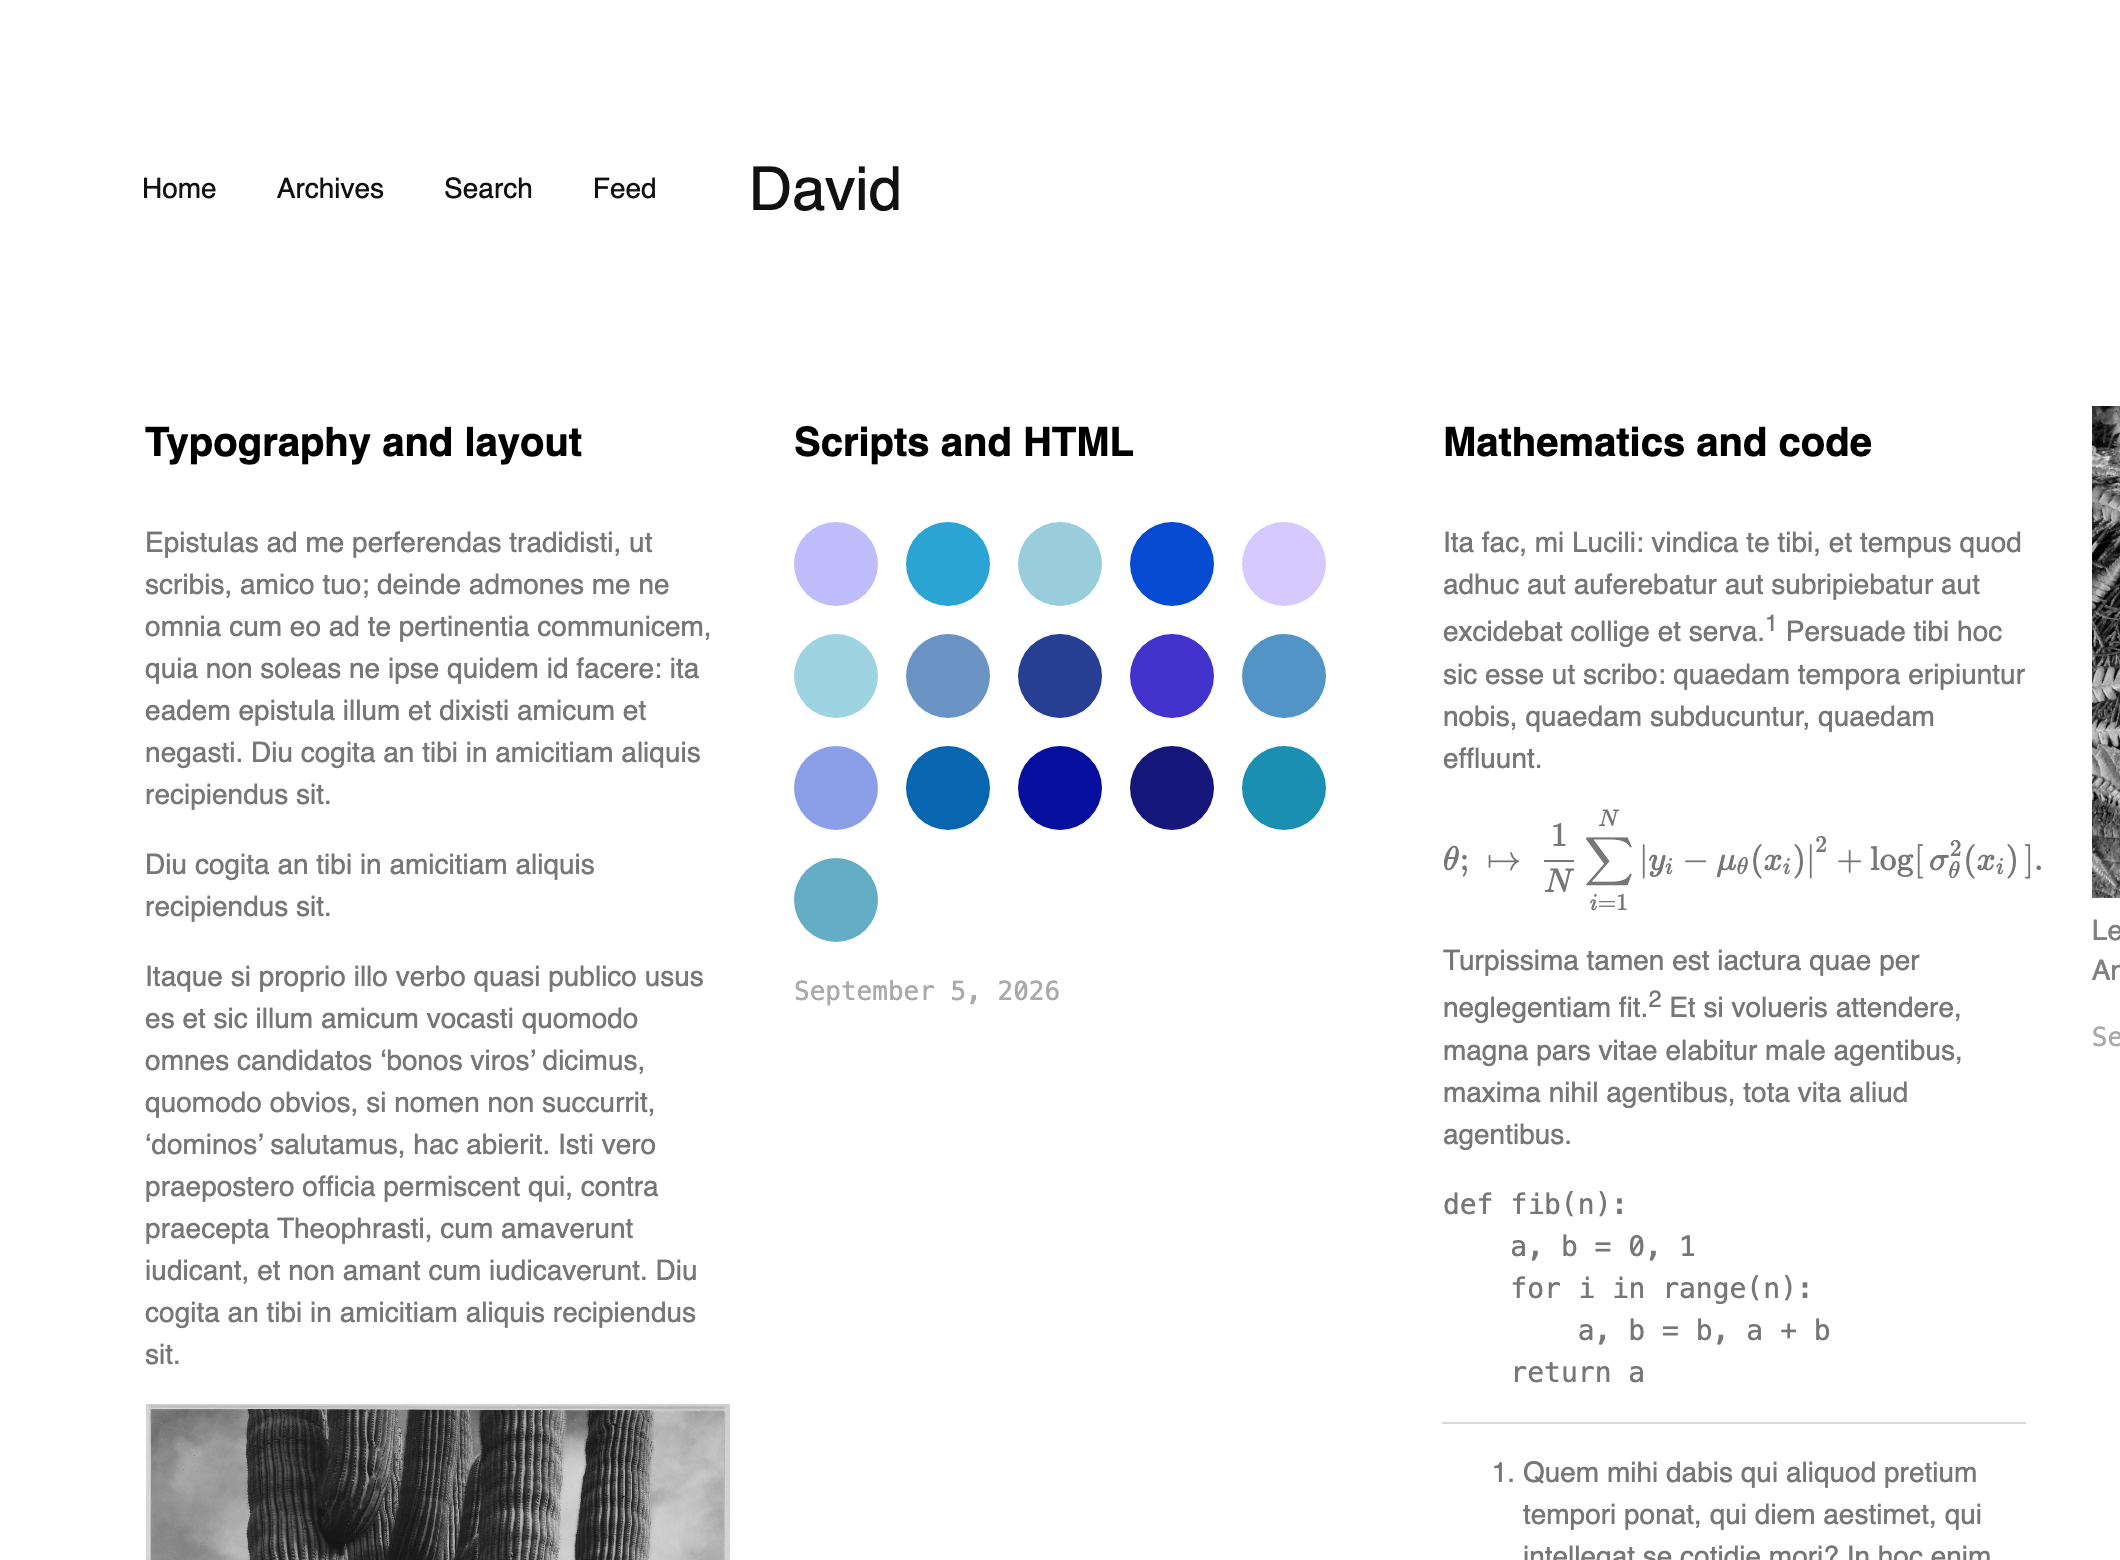
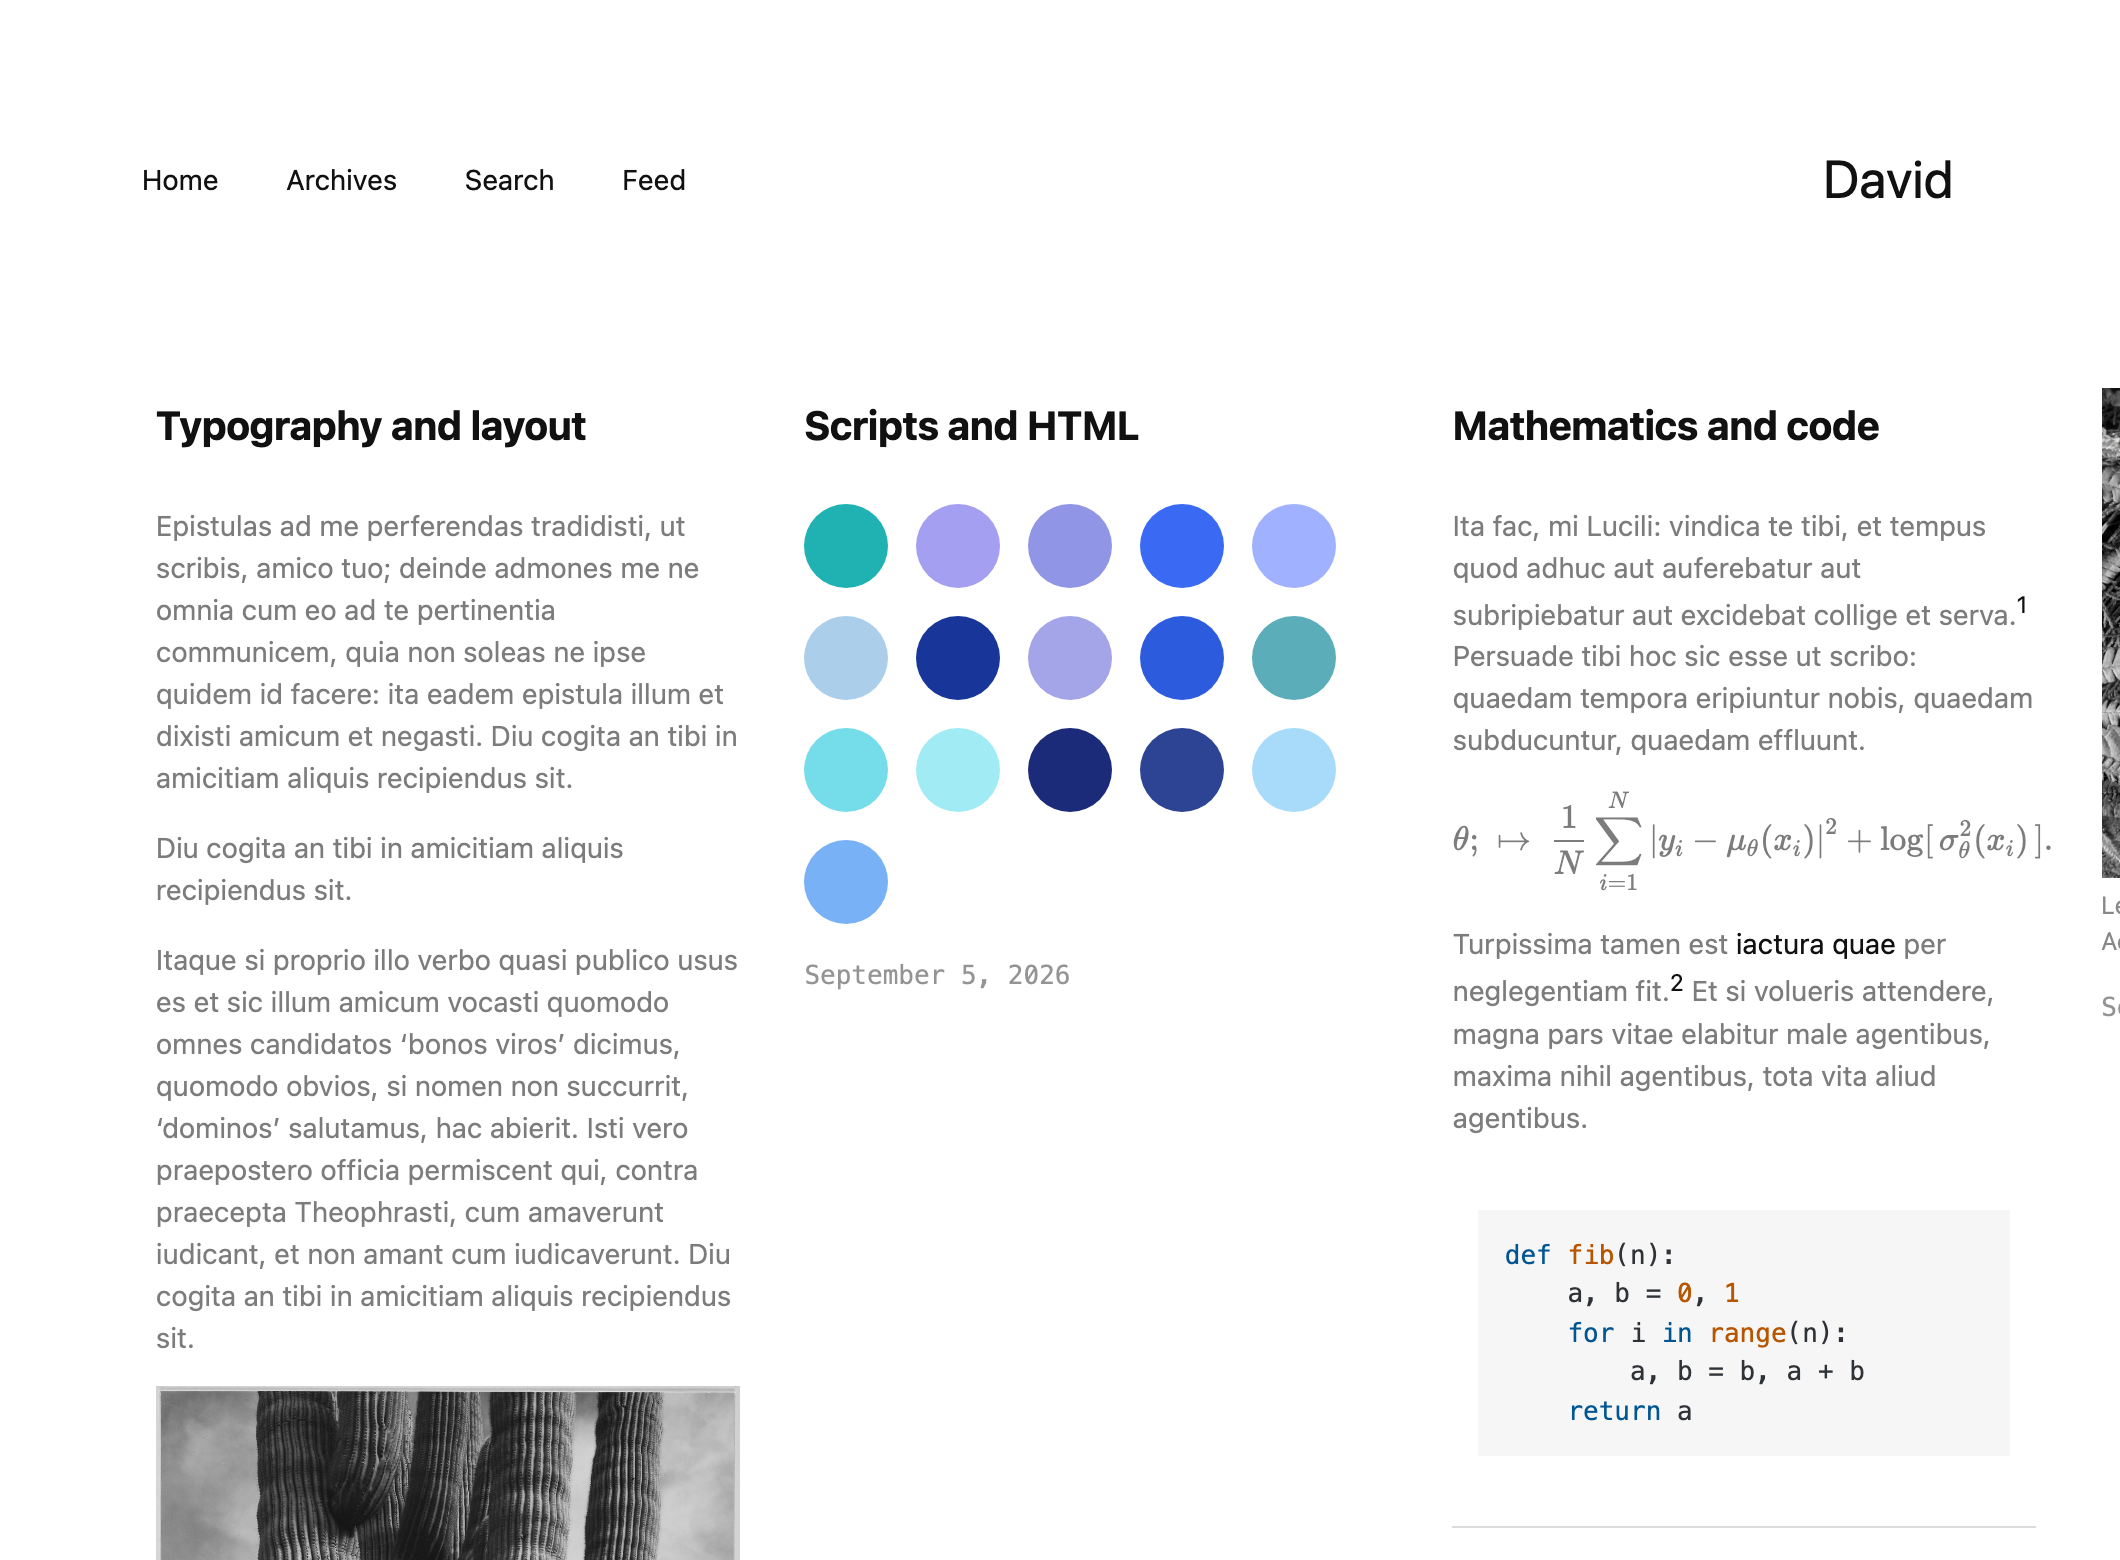
Expose Keynote template settings as dashboard controls (#1665)
* Expose Keynote template settings as dashboard controls

Add color, font, syntax highlighter, upload, navigation, and layout
locals so the presentation template can be configured from the
dashboard, and wire each one through CSS and markup.

* Unescape Keynote avatar URL in the header

* Note Keynote gallery layout follow-up in TODO

* Updates screenshots of templates

* Updates screenshots of templates

* Fix Keynote template dashboard controls

* Updates screenshots of templates

---------

diff --git a/app/templates/source/keynote/style.css b/app/templates/source/keynote/style.css
@@ -1,4 +1,8 @@
 {{{app_css}}}
+{{{body_font.styles}}}
+{{{heading_font.styles}}}
+{{{syntax_highlighter_font.styles}}}
+{{{syntax_highlighter.styles}}}
 
 html,
 body {
@@ -7,10 +11,15 @@ body {
 }
 
 body {
-  font: normal 16px / 1.5 sans-serif;
+  {{#body_font}}
+  font-size: {{{font_size}}}px;
+  line-height: {{{line_height}}};
+  font-family: {{{stack}}};
+  {{/body_font}}
   margin: 0;
   padding: 0;
-  color: #111;
+  color: {{text_color}};
+  background: {{background_color}};
 }
 
 /* Fill the viewport below the header; paint a background so screenshots are opaque. */
@@ -28,14 +37,14 @@ body:has(.gallery) {
   flex: 1 1 auto;
   min-width: 0;
   min-height: 0;
-  padding: 0 3.66em;
+  padding: 0 {{spacing}}em;
   background: {{background_color}};
 }
 
 .gallery .entry {
   display: inline-block;
   vertical-align: top;
-  width: 320px;
+  width: {{slide_width}}px;
   box-sizing: border-box;
   white-space: normal;
 }
@@ -45,45 +54,89 @@ img {max-width: 100%;height: auto;}
 .clear {width: 100%;display: block;clear: both;}
 
 h1, h2, h3, h4, h5, h6 {
-  color: #000;
-  font-size: 16px;
+  {{#heading_font}}
+  font-family: {{{stack}}};
+  {{/heading_font}}
+  color: {{text_color}};
+  font-size: 1em;
   margin: 26px 0
 }
 
-h1 {font-size: 20px;font-family: sans-serif;line-height: 1.3}
+h1 {
+  {{#heading_font}}
+  font-size: {{{font_size}}}px;
+  line-height: {{{line_height}}};
+  {{/heading_font}}
+}
 
-a {color: inherit;text-decoration: none;}
+a {color: {{link_color}};text-decoration: none;}
 
-blockquote {color: #585858;margin-left: 52px}
+blockquote {color: rgba({{#rgb}}{{text_color}}{{/rgb}}, 0.55);margin-left: 52px}
 
 p,
 li,
 blockquote,
 figcaption {orphans: 2; widows: 2;}
 
-hr {width: 100%;border: none;border-bottom: 1px solid rgba(0,0,0,0.15)}
+hr {width: 100%;border: none;border-bottom: 1px solid rgba({{#rgb}}{{text_color}}{{/rgb}}, 0.15)}
 
-.date {font-family: Menlo, monospace;
-  margin:1em 0;color: #aaa;font-size: 13px}
-
+.date {
+  {{#syntax_highlighter_font}}
+  font-family: {{{stack}}};
+  font-size: {{{font_size}}}px;
+  {{/syntax_highlighter_font}}
+  margin:1em 0;
+  color: rgba({{#rgb}}{{text_color}}{{/rgb}}, 0.45);
+}
 
 #header {
-  padding: 4em;
-  font-size: 14px;
   display: flex;
-  flex-wrap: wrap;
   align-items: center;
+  flex-wrap: wrap;
   flex: 0 0 auto;
+  gap: 0.5em 1em;
+  padding: {{spacing}}em;
+  font-size: 0.875em;
   background: {{background_color}};
 }
+
+{{#is.navigation_alignment.justified}}
+#header {justify-content: space-between;}
+{{/is.navigation_alignment.justified}}
+{{#is.navigation_alignment.left}}
+#header {justify-content: flex-start;}
+{{/is.navigation_alignment.left}}
+{{#is.navigation_alignment.right}}
+#header {justify-content: flex-end;}
+{{/is.navigation_alignment.right}}
+{{#is.navigation_alignment.center}}
+#header {justify-content: center;}
+{{/is.navigation_alignment.center}}
+
+{{#sticky_navigation}}
+#header {
+  position: sticky;
+  top: 0;
+  z-index: 2;
+}
+{{/sticky_navigation}}
+
 #header a {padding: 0.5em;margin: 0 0.5em;border: 1px solid transparent}
-#header a:hover {border-color: #000}
+#header a:hover {border-color: {{link_color}}}
 
 #title {
-  font-size: 30px;
-  margin-left: auto;
+  {{#heading_font}}
+  font-family: {{{stack}}};
+  {{/heading_font}}
+  font-size: 1.875em;
   position: relative;
-  padding: 0.25em;
+  padding: 0.25em
+}
+
+#title .logo {
+  max-height: 1.2em;
+  width: auto;
+  vertical-align: middle;
 }
 
 .avatar {
@@ -91,28 +144,51 @@ hr {width: 100%;border: none;border-bottom: 1px solid rgba(0,0,0,0.15)}
   {{#roundAvatar}}
   border-radius:50%;
   {{/roundAvatar}}
-  position:absolute;
-  top:-3px;
-  left:-48px
+  vertical-align: middle;
+  margin-right: 0.75em;
 }
 
-.entry {font-size:14px;padding: 1em;color: #777}
-.entry h1:first-of-type {margin-top: 0.3em}
+.entry {font-size:0.875em;padding: 1em;color: rgba({{#rgb}}{{text_color}}{{/rgb}}, 0.55)}
+.entry h1:first-of-type {margin-top: 0.3em;color: {{text_color}}}
 
-.contents,
-.container {margin: 0 4em 0 8em;max-width: 800px}
+.contents {margin: 0 {{spacing}}em 0 calc({{spacing}}em * 2);max-width: {{content_width}}px}
+
+.list {
+  margin: 0 {{spacing}}em {{spacing}}em calc({{spacing}}em * 2);
+  max-width: {{content_width}}px;
+}
+
+.list a {border-bottom: 1px solid {{link_color}}}
 
 .caption {
-  font: 14px / 1.4333 sans-serif;
-  color: gray;
+  {{#body_font}}
+  font-family: {{{stack}}};
+  {{/body_font}}
+  font-size: 0.875em;
+  line-height: 1.4333;
+  color: rgba({{#rgb}}{{text_color}}{{/rgb}}, 0.5);
   display: block;
   margin: 0 0 13px 0
 }
 
-.contents a {border-bottom: 1px solid black}
+.contents a {border-bottom: 1px solid {{link_color}}}
 .margin a {font-weight: normal;}
 
 .videoContainer {margin: 1em 0}
+
+pre {
+  overflow-x: auto;
+  padding: 0.7em 1em;
+}
+
+pre, code {
+  {{#syntax_highlighter_font}}
+  font-family: {{{stack}}};
+  font-size: {{{font_size}}}px;
+  {{/syntax_highlighter_font}}
+}
+
+.pagination {margin: 2em 0;color: rgba({{#rgb}}{{text_color}}{{/rgb}}, 0.55)}
 
 @media screen and (max-width: 800px) {
   #header {
@@ -139,7 +215,7 @@ hr {width: 100%;border: none;border-bottom: 1px solid rgba(0,0,0,0.15)}
   }
 
   .contents,
-  .container {
+  .list {
     margin: 0 1.25em 2em;
   }
 }

diff --git a/app/templates/source/keynote/_header.html b/app/templates/source/keynote/_header.html
@@ -1,13 +1,11 @@
 <div id="header">
 
-  {{#avatar}}
-  <img id="avatar" class="avatar" src="{{{avatar}}}" alt="" />
-  {{/avatar}}
+  <nav class="nav">
+    {{#menu}}
+    <a href="{{{url}}}" title="{{label}}">{{label}}</a>
+    {{/menu}}
+  </nav>
 
-  {{#menu}}
-  <a href="{{{url}}}" title="{{label}}">{{label}}</a>
-  {{/menu}}
-
-  <a id="title" href="/" title="The homepage of {{title}}">{{title}}</a>
+  <a id="title" href="/" title="The homepage of {{title}}">{{#logo_url}}<img src="{{{logo_url}}}" alt="{{title}}" class="logo">{{/logo_url}}{{^logo_url}}{{#avatar}}<img class="avatar" src="{{{avatar}}}" alt="">{{/avatar}}{{title}}{{/logo_url}}</a>
 
 </div>

diff --git a/app/templates/source/keynote/search.html b/app/templates/source/keynote/search.html
@@ -7,7 +7,7 @@
 
       {{> header}}
 
-      <div class="header-area">
+      <div class="list">
 
       <span class="pull-left">
         Search
@@ -16,7 +16,6 @@
       <form>
         <input placeholder="Search for an entry..." value="{{#query}}{{query}}{{/query}}" name="q" id="search" type="text" /><input type="submit" value="Go"/>
       </form>
-      </div>
 
 
       <br>
@@ -33,10 +32,10 @@
         {{/query}}
 
         {{#entries}}
-          <a href="{{{url}}}">{{title}}</a> {{date}}<br>
+          <a href="{{{url}}}">{{title}}</a>{{#date}} {{date}}{{/date}}<br>
         {{/entries}}
 
-
+      </div>
 
 
 

diff --git a/app/templates/source/keynote/_head.html b/app/templates/source/keynote/_head.html
@@ -12,7 +12,8 @@
   {{^entry}}<meta name="description" content="{{> description}}">{{/entry}}
 
   <link rel="alternate" type="application/rss+xml" title="RSS Feed for {{title}}" href="{{{siteURL}}}{{{feedURL}}}">
-  {{#avatar}}<link rel="icon" href="{{{avatar}}}" type="image/x-icon">{{/avatar}}
+  {{#favicon_url}}<link rel="icon" href="{{{favicon_url}}}" type="image/x-icon">{{/favicon_url}}
+  {{^favicon_url}}{{#avatar}}<link rel="icon" href="{{{avatar}}}" type="image/x-icon">{{/avatar}}{{/favicon_url}}
   <link rel="preconnect" href="{{{cdn}}}" />
   <link rel="stylesheet" href="{{#cdn}}/style.css{{/cdn}}">
 

diff --git a/app/templates/source/keynote/archives.html b/app/templates/source/keynote/archives.html
@@ -9,18 +9,19 @@
       {{> header}}
 
 
-      <div class="header-area">
+      <div class="list">
 
       <span class="pull-left">
         All posts
       </span>
 
-      </div>
       <p>
       {{#all_entries}}
-      <a href="{{{url}}}">{{title}}</a> {{date}}<br>
+      <a href="{{{url}}}">{{title}}</a>{{#date}} {{date}}{{/date}}<br>
       {{/all_entries}}
     </p>
+
+      </div>
 
    </div>
    {{> footer}}

diff --git a/app/templates/source/keynote/tagged.html b/app/templates/source/keynote/tagged.html
@@ -4,10 +4,11 @@
   <body>
     {{> header}}
 
+    <div class="list">
     <h1>Posts tagged “{{tag}}”</h1>
 
     {{#entries}}
-    <a href="{{{url}}}">{{title}}</a> {{date}} <br>
+    <a href="{{{url}}}">{{title}}</a>{{#date}} {{date}}{{/date}} <br>
     {{/entries}}
 
     {{#pagination}}
@@ -21,6 +22,7 @@
       {{/next}}
     </div>
     {{/pagination}}
+    </div>
 
     {{> footer}}
   </body>

diff --git a/app/templates/index.js b/app/templates/index.js
@@ -158,6 +158,13 @@ function build(directory, callback) {
       );
     }
 
+    if (template.locals.heading_font !== undefined) {
+      template.locals.heading_font = _.merge(
+        _.cloneDeep(DEFAULT_FONT),
+        template.locals.heading_font
+      );
+    }
+
     if (template.locals.font !== undefined) {
       template.locals.font = _.merge(
         _.cloneDeep(DEFAULT_FONT),

diff --git a/app/templates/source/keynote/error.html b/app/templates/source/keynote/error.html
@@ -7,9 +7,11 @@
 
       {{> header}}
 
-      <h1 class="header-area">{{error.title}}</h1>
+      <div class="list">
+      <h1>{{error.title}}</h1>
 
       <p>Something has gone wrong. {{error.message}}</p>
+      </div>
 
     </div>
     {{> footer}}

diff --git a/app/templates/source/keynote/entry.html b/app/templates/source/keynote/entry.html
@@ -9,9 +9,11 @@
 
       {{#entry}}
 
+        <div class="contents">
         {{> post}}
 
         {{> pluginHTML}}
+        </div>
 
       {{/entry}}
 
